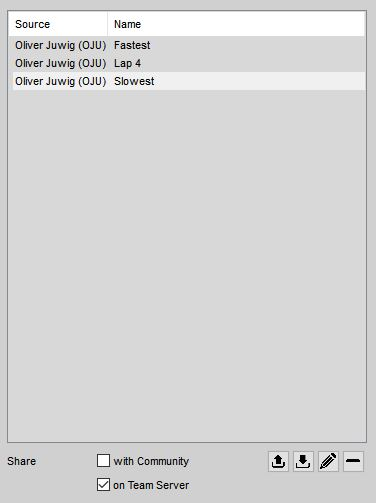
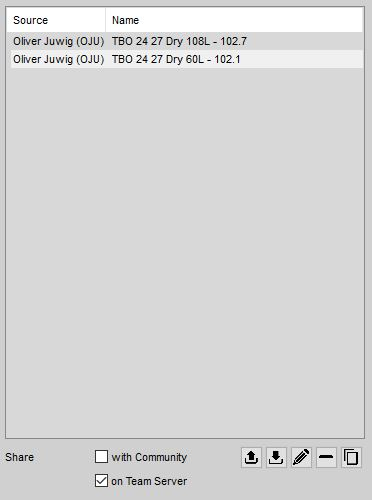
Copy button for telemetry names in "Session Database"

Changed region(s): [[0.0, 0.0, 1.0, 0.99]]

diff --git a/Docs/Session Database.md b/Docs/Session Database.md
@@ -113,7 +113,7 @@ Telemetry data for individual laps can be stored in the session database, for ex
 
 ![](https://github.com/SeriousOldMan/Simulator-Controller/blob/main/Docs/Images/Session%20Database%2019.jpg)
 
-You can use the buttons below the list to upload, download, rename or delete lap telemetry data, but in most cases you will use the ["Solo Center"](https://github.com/SeriousOldMan/Simulator-Controller/wiki/Solo-Center), the ["Team Center"](https://github.com/SeriousOldMan/Simulator-Controller/wiki/Team-Center) or the ["Setup Workbench"](https://github.com/SeriousOldMan/Simulator-Controller/wiki/Setup-Workbench) to record the telemetry data and store it in the database. Once you have selected telemetry data in the list above, you can decide whether you want to share it potentially with the community (if you have given consent to share telemetry data - see the information about community data at the end of this chapter) and/or whether you want to synchronize the lap telemetry with any of the [connected Team Servers](https://github.com/SeriousOldMan/Simulator-Controller/wiki/Session-Database#database-configuration) (see below).
+You can use the buttons below the list to upload, download, rename or delete lap telemetry data, but in most cases you will use the ["Solo Center"](https://github.com/SeriousOldMan/Simulator-Controller/wiki/Solo-Center), the ["Team Center"](https://github.com/SeriousOldMan/Simulator-Controller/wiki/Team-Center) or the ["Setup Workbench"](https://github.com/SeriousOldMan/Simulator-Controller/wiki/Setup-Workbench) to record the telemetry data and store it in the database. Once you have selected telemetry data in the list above, you can decide whether you want to share it potentially with the community (if you have given consent to share telemetry data - see the information about community data at the end of this chapter) and/or whether you want to synchronize the lap telemetry with any of the [connected Team Servers](https://github.com/SeriousOldMan/Simulator-Controller/wiki/Session-Database#database-configuration) (see below). Additionally, you can use the copy button to copy the name of the telemetry data to the clipbaord. This is useful, if you want to register the given lap as reference lap for the Driving Coach in the [race settings](https://github.com/SeriousOldMan/Simulator-Controller/wiki/Session-Database#race-settings) in the "Session Database".
 
 ##### Naming conventions
 
@@ -162,7 +162,7 @@ If you use the "Open..." button in the dialog, which let's you browse the availa
 - You can load telemetry files from Simulator Controller, for example a file that has been sent to you by a team mate.
 - You can import telemetery data from ["Second Monitor"](https://gitlab.com/winzarten/SecondMonitor), as long as it has been saved as JSON file, which can be activated in the settings of "Second Monitor".
 - Importing IBT files from *iRacing* is also supported, as long as a track map for the currently selected track is already available. In this case, you will first have to select the IBT file, which is then split up into individual files for each lap contained in the IBT file. After that is done, you can select the laps, which you want to import.
-- And you can import telemetry files from "MoTec". They must be exported as "CSV" files and the "Distance" field must be included. Since "MoTeC" uses the absolute angle for the steering information, it is beneficial to divide this value to the steer lock of the car, to make the information comparable to that of other lap telemetry data. The importer will use the information available in the "Setup Workbench" about the different cars, or you can define the [corresponding setting](https://github.com/SeriousOldMan/Simulator-Controller/wiki/Session-Database#race-settings) in the "Session Database".
+- And you can import telemetry files from "MoTec". They must be exported as "CSV" files and the "Distance" field must be included. Since "MoTeC" uses the absolute angle for the steering information, it is beneficial to divide this value by the steer lock of the car, to make the information comparable to that of other lap telemetry data. The importer will use the information available in the "Setup Workbench" about the different cars, or you can define the [corresponding setting](https://github.com/SeriousOldMan/Simulator-Controller/wiki/Session-Database#race-settings) in the "Session Database".
 
 Good to know: When importing lap telemetry data directly in the "Laps" tab of "Session Database", the same applies.
 
